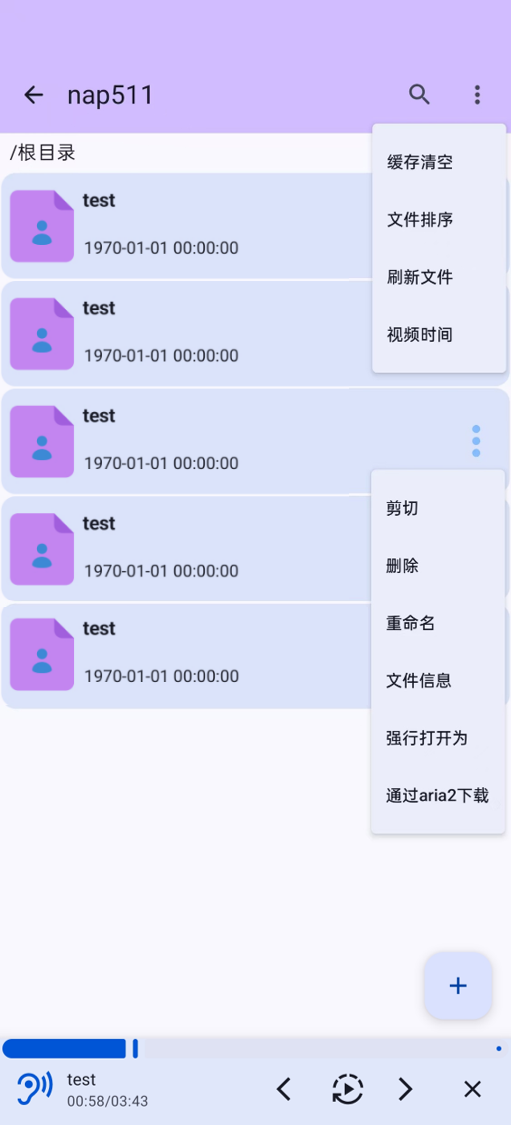
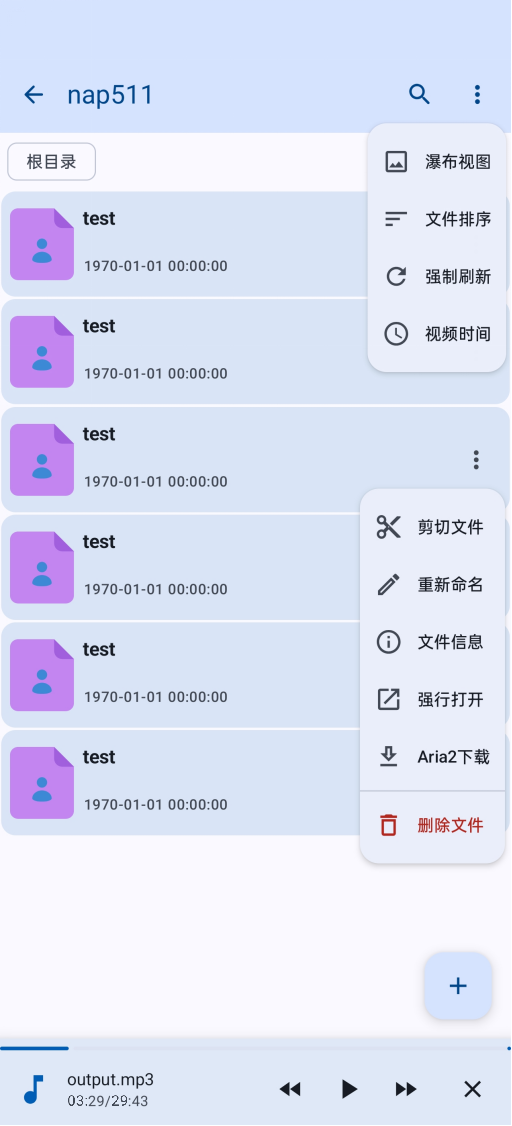
docs(readme): 优化 README 截图展示布局 - README.md: 新增截图资源。
feat(ui): 优化全屏沉浸式体验与滚动逻辑
- FileScreen: 引入 `scrollToTop` 统一管理不同模式（列表/网格/瀑布流）的置顶逻辑，并重构滚动状态缓存的条件分支。
- FileScaffold: 优化 Scaffold 的 WindowInsets 处理，实现控制栏隐藏时保留底部导航与横屏安全边距。
- PhotoScreen: 实现基于控制栏可见性的动态系统栏（System Bars）显隐控制，增强图片浏览沉浸感。

diff --git a/app/src/main/java/github/zerorooot/nap511/screen/FileScreen.kt b/app/src/main/java/github/zerorooot/nap511/screen/FileScreen.kt
@@ -3,8 +3,10 @@ package github.zerorooot.nap511.screen
 import android.app.Activity
 import android.content.ClipData
 import android.content.Intent
+import android.os.Build
 import android.os.SystemClock
 import android.provider.Settings
+import android.view.WindowManager
 import androidx.activity.compose.BackHandler
 import androidx.activity.compose.rememberLauncherForActivityResult
 import androidx.activity.result.contract.ActivityResultContracts
@@ -64,6 +66,7 @@ import androidx.compose.material3.Icon
 import androidx.compose.material3.IconButton
 import androidx.compose.material3.MaterialTheme
 import androidx.compose.material3.Scaffold
+import androidx.compose.material3.ScaffoldDefaults
 import androidx.compose.material3.Surface
 import androidx.compose.material3.Text
 import androidx.compose.material3.TextButton
@@ -474,10 +477,10 @@ fun FileScreen(
             fileViewModel.setRefreshingStatus(true)
 
             //记录上级目录当前的位置
-            if (isExpandedScreen || isImagePreviewMode) {
-                fileViewModel.setListLocationAndClickCache(i, gridState)
-            } else {
-                fileViewModel.setListLocationAndClickCache(i, listState)
+            when {
+                isImagePreviewMode -> fileViewModel.setListLocationAndClickCache(i, staggeredGrid)
+                isExpandedScreen -> fileViewModel.setListLocationAndClickCache(i, gridState)
+                else -> fileViewModel.setListLocationAndClickCache(i, listState)
             }
             val fileBean = fileBeanList[i]
 
@@ -493,6 +496,14 @@ fun FileScreen(
                 else -> fileViewModel.setRefreshingStatus(false)
             }
 
+        }
+    }
+
+    fun scrollToTop() {
+        when {
+            isImagePreviewMode -> staggeredGrid.requestScrollToItem(0, 0)
+            isExpandedScreen -> gridState.requestScrollToItem(0, 0)
+            else -> listState.requestScrollToItem(0, 0)
         }
     }
 
@@ -512,10 +523,10 @@ fun FileScreen(
             return
         }
         if (path != "/根目录" && !fileViewModel.isLongClickState) {
-            if (isExpandedScreen || isImagePreviewMode) {
-                fileViewModel.setListLocation(path, gridState)
-            } else {
-                fileViewModel.setListLocation(path, listState)
+            when {
+                isImagePreviewMode -> fileViewModel.setListLocation(path, staggeredGrid)
+                isExpandedScreen -> fileViewModel.setListLocation(path, gridState)
+                else -> fileViewModel.setListLocation(path, listState)
             }
         }
         isBottomBarShow = true
@@ -568,11 +579,7 @@ fun FileScreen(
 
             MenuItemAction.VIDEO_SCHEDULE -> {
                 fileViewModel.sortByVideoTime()
-                if (isExpandedScreen || isImagePreviewMode) {
-                    gridState.requestScrollToItem(0, 0)
-                } else {
-                    listState.requestScrollToItem(0, 0)
-                }
+                scrollToTop()
             }
 
             MenuItemAction.FILE_SORT -> fileViewModel.openFileOrderDialog()
@@ -628,11 +635,7 @@ fun FileScreen(
             },
             onPathDoubleClick = {
                 scope.launch {
-                    if (isExpandedScreen || isImagePreviewMode) {
-                        gridState.requestScrollToItem(0, 0)
-                    } else {
-                        listState.requestScrollToItem(0, 0)
-                    }
+                    scrollToTop()
                 }
             },
             onPathLongClick = { name, cid ->
@@ -682,6 +685,7 @@ fun FileScreen(
         path,
         isExpandedScreen,
         isImagePreviewMode,
+        staggeredGrid,
         gridState,
         listState,
         imageLoader,
@@ -769,6 +773,18 @@ private fun FileScaffold(
     content: @Composable (PaddingValues) -> Unit
 ) {
     Scaffold(
+        //直接设置
+        // contentWindowInsets = WindowInsets(0, 0, 0, 0) ,
+        // 会彻底清空 所有方向（上、下、左、右） 的系统安全边距（System Insets）
+        //造成：1、底部导航栏/手势条重叠（Bottom Insets 丢失）；2、横屏及左右安全边距丢失（Horizontal Insets 丢失）；3、软键盘自动弹起避让失效（IME Insets 丢失）
+        contentWindowInsets = if (state.isTopBarShow) {
+            ScaffoldDefaults.contentWindowInsets
+        } else {
+            // 仅在隐藏控制栏时排除 Top 边距，保留 Bottom（底部导航栏/手势）和 Horizontal（左右）
+            ScaffoldDefaults.contentWindowInsets.only(
+                WindowInsetsSides.Bottom + WindowInsetsSides.Horizontal
+            )
+        },
         topBar = {
             AnimatedVisibility(
                 visible = state.isTopBarShow,

diff --git a/app/src/main/java/github/zerorooot/nap511/screen/PhotoScreen.kt b/app/src/main/java/github/zerorooot/nap511/screen/PhotoScreen.kt
@@ -78,28 +78,6 @@ fun MyPhotoScreen(
         XLog.d("MyPhotoScreen enter: totalPhotos=${photoList.size}, currentIndex=$currentIndex, cid=$cid")
     }
 
-    val view = LocalView.current
-    DisposableEffect(Unit) {
-        // 获取 Window 实例（注意：需要确保 context 是 Activity）
-        val window = (view.context as? Activity)?.window
-            ?: throw Exception("Not in an Activity - unable to get Window reference")
-
-        // 创建控制器
-        val insetsController = WindowCompat.getInsetsController(window, view)
-
-        // 隐藏状态栏和导航栏
-        insetsController.hide(WindowInsetsCompat.Type.systemBars())
-
-        // 设置交互模式：滑动边缘时临时显示（Immersive Sticky 模式）
-        insetsController.systemBarsBehavior =
-            WindowInsetsControllerCompat.BEHAVIOR_SHOW_TRANSIENT_BARS_BY_SWIPE
-
-        onDispose {
-            // 退出时恢复显示
-            insetsController.show(WindowInsetsCompat.Type.systemBars())
-        }
-    }
-
     ImageBrowserScreen(
         photoList = photoList,
         imageCache = imageCache,
@@ -133,6 +111,25 @@ private fun ImageBrowserScreen(
 
     fun onToggleControl() {
         controlsVisible = !controlsVisible
+    }
+
+    val view = LocalView.current
+    DisposableEffect(controlsVisible) {
+        val window = (view.context as? Activity)?.window
+        val insetsController = window?.let { WindowCompat.getInsetsController(it, view) }
+
+        // 根据 controlsVisible 动态控制系统栏显隐
+        if (!controlsVisible) {
+            insetsController?.hide(WindowInsetsCompat.Type.systemBars())
+            insetsController?.systemBarsBehavior =
+                WindowInsetsControllerCompat.BEHAVIOR_SHOW_TRANSIENT_BARS_BY_SWIPE
+        } else {
+            insetsController?.show(WindowInsetsCompat.Type.systemBars())
+        }
+
+        onDispose {
+            insetsController?.show(WindowInsetsCompat.Type.systemBars())
+        }
     }
 
     Box(

diff --git a/app/src/main/java/github/zerorooot/nap511/MainActivity.kt b/app/src/main/java/github/zerorooot/nap511/MainActivity.kt
@@ -107,6 +107,7 @@ class MainActivity : AppCompatActivity() {
     @SuppressLint("CoroutineCreationDuringComposition")
     override fun onCreate(savedInstanceState: Bundle?) {
         super.onCreate(savedInstanceState)
+        //不设置会报错：No NavigationEventDispatcher was provided via LocalNavigationEventDispatcherOwner
         initializeViewTreeOwners()
         enableEdgeToEdge()
         setContent {

diff --git a/README.md b/README.md
@@ -8,16 +8,33 @@
 
 # 截图
 
-<table>
-  <tr style="text-align: center; vertical-align: middle;">
-    <td><a href="./assets/01.jpg"><img src="./assets/01.jpg?raw=true" width="300" alt="Screenshot 001"/></a></td>
-    <td><a href="./assets/02.jpg"><img src="./assets/02.jpg?raw=true" width="300" alt="Screenshot 002"/></a></td>
-    <td><a href="./assets/03.jpg"><img src="./assets/03.jpg?raw=true" width="300" alt="Screenshot 003"/></a></td>
+<table style="text-align: center; vertical-align: middle; width: 1200px; table-layout: fixed;">
+  <tr><td colspan="2">
+      <a href="./assets/01.jpg"><img src="./assets/01.jpg?raw=true" width="300" alt="Screenshot 001"/></a>
+    </td>
+    <td colspan="2">
+      <a href="./assets/02.jpg"><img src="./assets/02.jpg?raw=true" width="300" alt="Screenshot 002"/></a>
+    </td>
+    <td colspan="2">
+      <a href="./assets/03.jpg"><img src="./assets/03.jpg?raw=true" width="300" alt="Screenshot 003"/></a>
+    </td>
   </tr>
-  <tr style="text-align: center; vertical-align: middle;">
-    <td><a href="./assets/04.jpg"><img src="./assets/04.jpg?raw=true" width="300" alt="Screenshot 004"/></a></td>
-    <td><a href="./assets/05.jpg"><img src="./assets/05.jpg?raw=true" width="300" alt="Screenshot 005"/></a></td>
-    <td><a href="./assets/06.jpg"><img src="./assets/06.jpg?raw=true" width="300" alt="Screenshot 006"/></a></td>
+  <tr><td colspan="2">
+      <a href="./assets/04.jpg"><img src="./assets/04.jpg?raw=true" width="300" alt="Screenshot 004"/></a>
+    </td>
+    <td colspan="2">
+      <a href="./assets/05.jpg"><img src="./assets/05.jpg?raw=true" width="300" alt="Screenshot 005"/></a>
+    </td>
+    <td colspan="2">
+      <a href="./assets/06.jpg"><img src="./assets/06.jpg?raw=true" width="300" alt="Screenshot 006"/></a>
+    </td>
+  </tr>
+  <tr><td colspan="3">
+      <a href="./assets/07.jpg"><img src="./assets/07.jpg?raw=true" width="600" alt="Screenshot 007"/></a>
+    </td>
+    <td colspan="3">
+      <a href="./assets/08.jpg"><img src="./assets/08.jpg?raw=true" width="600" alt="Screenshot 008"/></a>
+    </td>
   </tr>
 </table>
 
